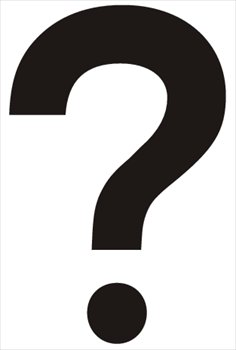
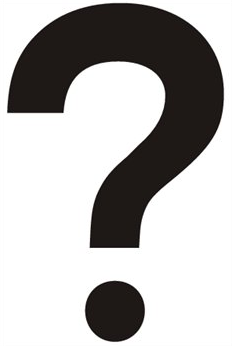
Allow optionnal image

diff --git a/www/views/consos.html b/www/views/consos.html
@@ -33,8 +33,8 @@
             <div flex="20" flex-sm="50">
                 <md-card class="beer selectable" flex="25">
                     <md-card-content layout="column" layout-align="center center">
-                        <img ng-if="beer.image_url" ng-src="{{ beer.image_url | thumb | urlFile }}" class="md-card-image" alt="Image bière">
-                        <img ng-if="!beer.image_url" src="imgs/interrogation.png" class="md-card-image" alt="Image bière">
+                        <img ng-if="beer.image_url"  class="md-card-image" alt="Image bière" ng-src="{{ beer.image_url | thumb | urlFile }}">
+                        <img ng-if="!beer.image_url" class="md-card-image" alt="Image bière" src="imgs/interrogation.png">
                         <div class="details">{{ beer.name }} {{ beer.price ? '(' + beer.price + '€)' : '' }}</div>
                     </md-card-content>
                 </md-card>
@@ -66,7 +66,8 @@
                 <div layout="row" layout-wrap layout-align="center center">
                     <md-card class="beer selectable" ng-repeat="beer in beers" flex="25" flex-sm="100">
                         <md-card-content layout="column" layout-align="center center">
-                            <img ng-src="{{ beer.image_url | thumb | urlFile }}" class="md-card-image" alt="Image bière">
+                            <img ng-if="beer.image_url"  class="md-card-image" alt="Image bière" ng-src="{{ beer.image_url | thumb | urlFile }}">
+                            <img ng-if="!beer.image_url" class="md-card-image" alt="Image bière" src="imgs/interrogation.png">
                             <div class="details">{{ beer.name }} ({{ beer.price }}€)</div>
                         </md-card-content>
                     </md-card>

diff --git a/www/views/beers.html b/www/views/beers.html
@@ -38,10 +38,7 @@
                     </div>
                 </md-input-container>
                 <md-input-container flex>
-                    <input aria-label="Image de la bière" required type="file" name="image" ng-model="image" base-sixty-four-input>
-                    <div ng-messages="beerForm.image.$error" ng-show="beerForm.image.$dirty">
-                        <div ng-message="required">Image</div>
-                    </div>
+                    <input aria-label="Image de la bière" type="file" name="image" ng-model="image" base-sixty-four-input>
                 </md-input-container>
                 <md-button class="md-raised md-primary" flex>Envoyer</md-button>
             </div>
@@ -51,7 +48,8 @@
     <div layout="row" layout-wrap>
         <md-card class="beer" ng-repeat="beer in beers" flex="25" flex-md="33" flex-sm="100">
             <md-card-content layout="row" layout-align="space-around center" class="md-body-1">
-                <img ng-src="{{ beer.image_url | thumb | urlFile }}" class="md-card-image" alt="Image bière">
+                <img ng-if="beer.image_url"  class="md-card-image" alt="Image bière" ng-src="{{ beer.image_url | thumb | urlFile }}">
+                <img ng-if="!beer.image_url" class="md-card-image" alt="Image bière" src="imgs/interrogation.png">
 
                 <p>
                     <strong>Prix :</strong> {{ beer.price }}€<br>

diff --git a/app/js/controllers/beers.js b/app/js/controllers/beers.js
@@ -8,8 +8,10 @@ angular.module('foyer')
                 price: price,
                 alcohol: alcohol,
                 volume: volume,
-                image: image.base64
             };
+            if (image) {
+                params.image = image.base64;
+            }
 
             $http
                 .post(apiPrefix + 'beers', params)
